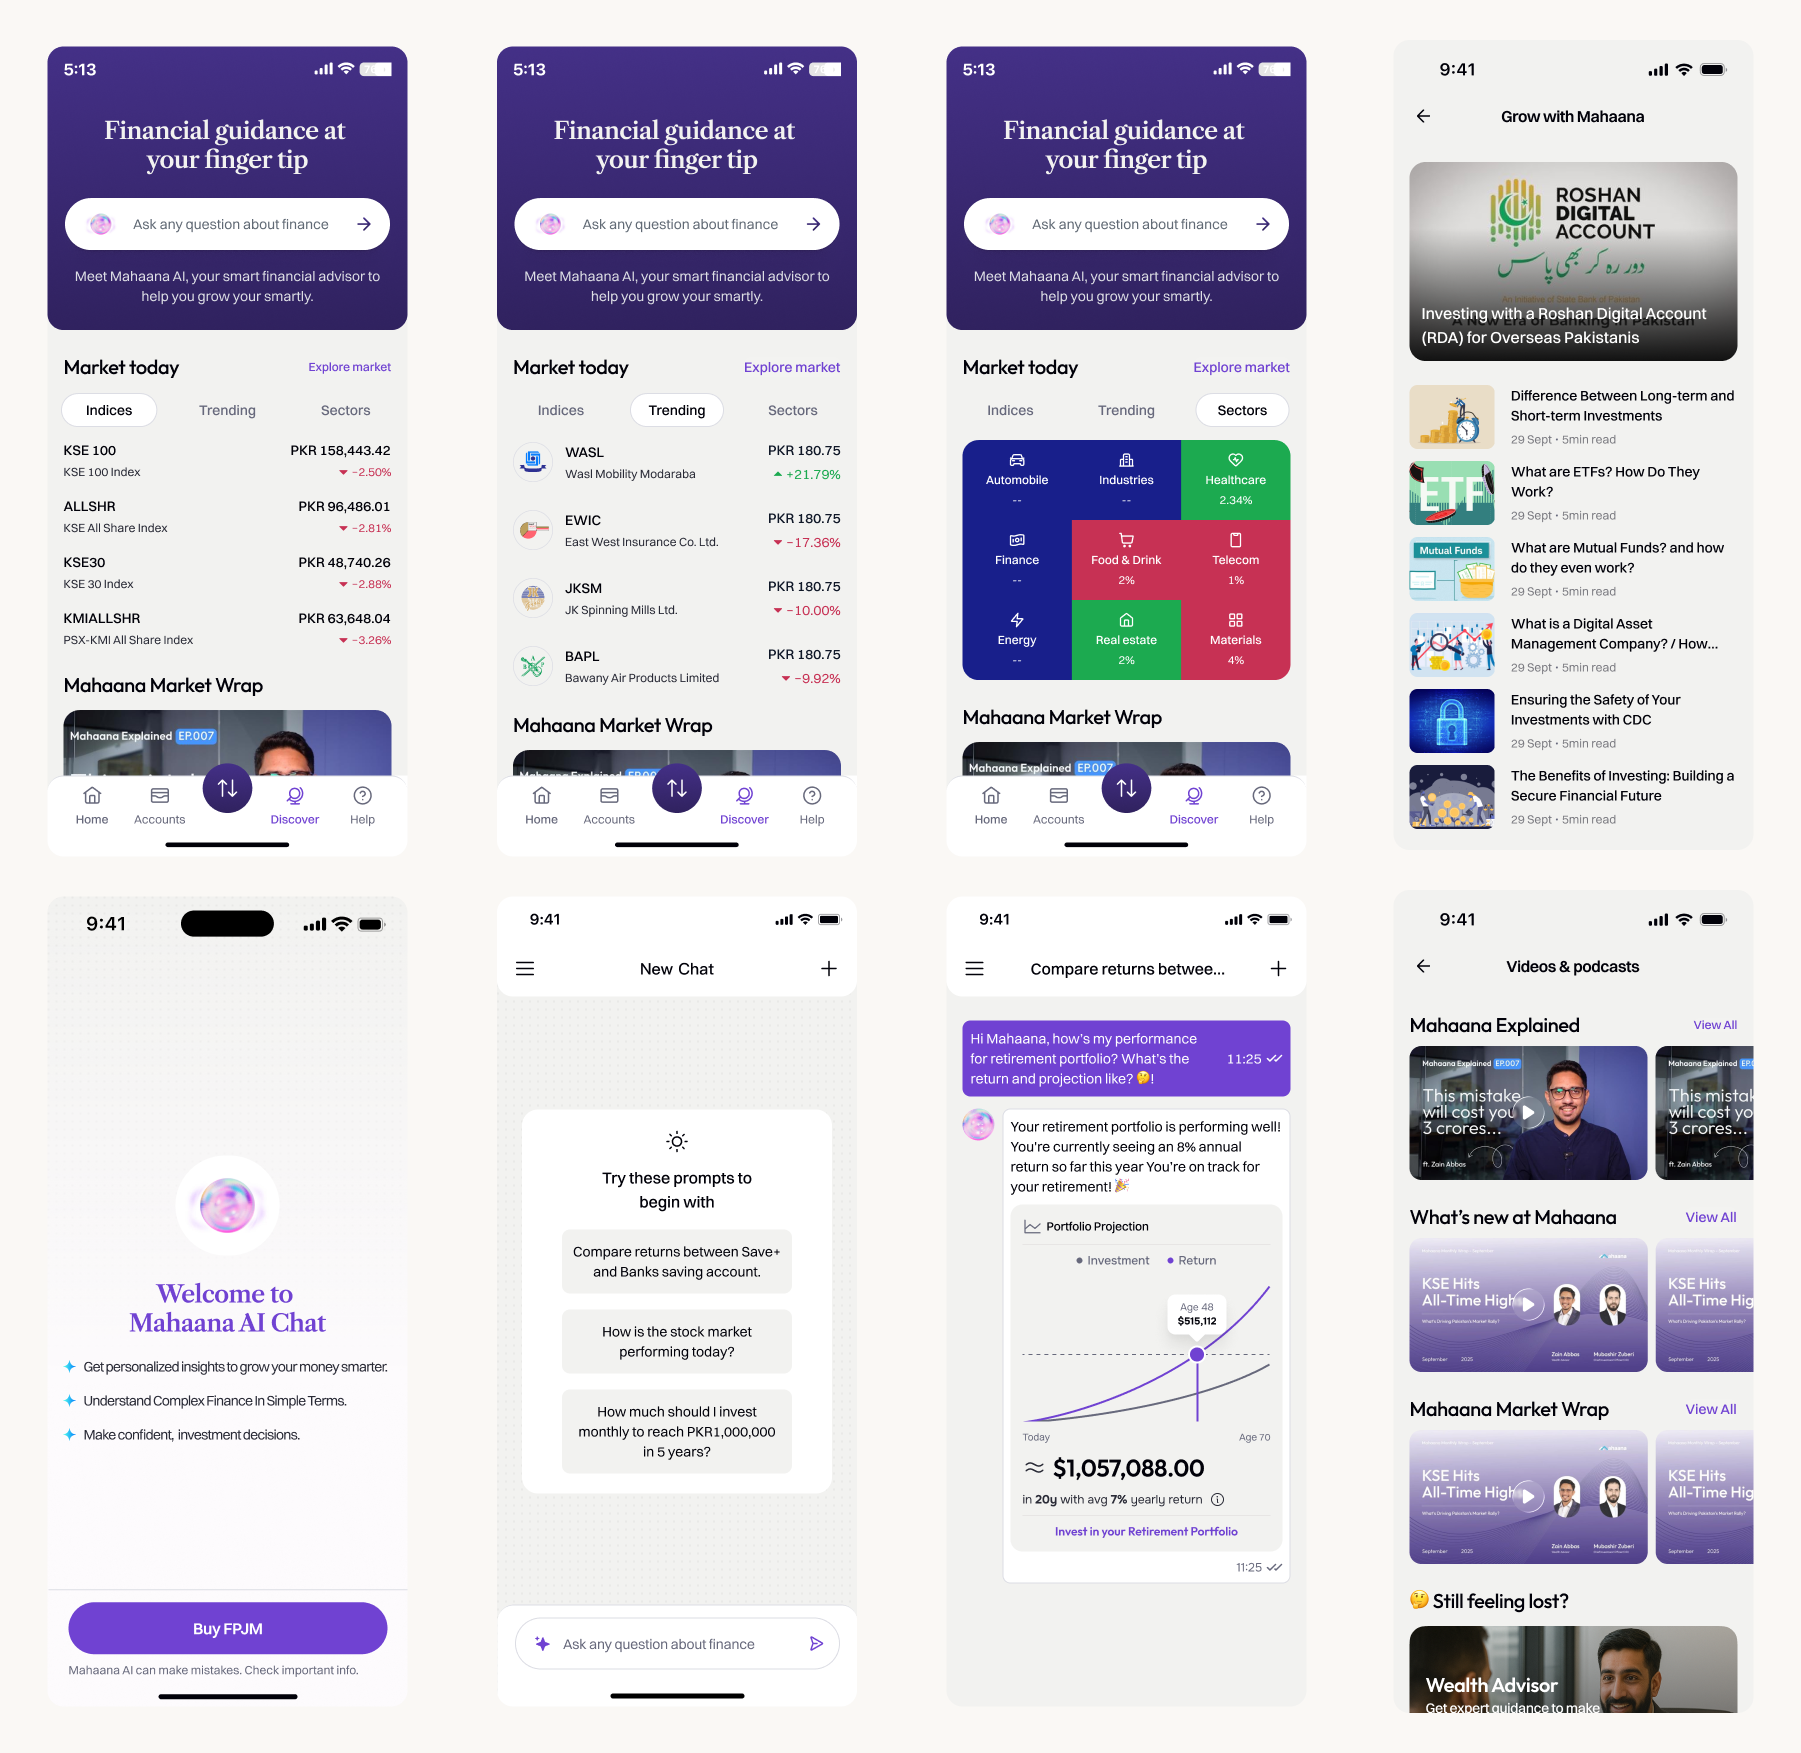
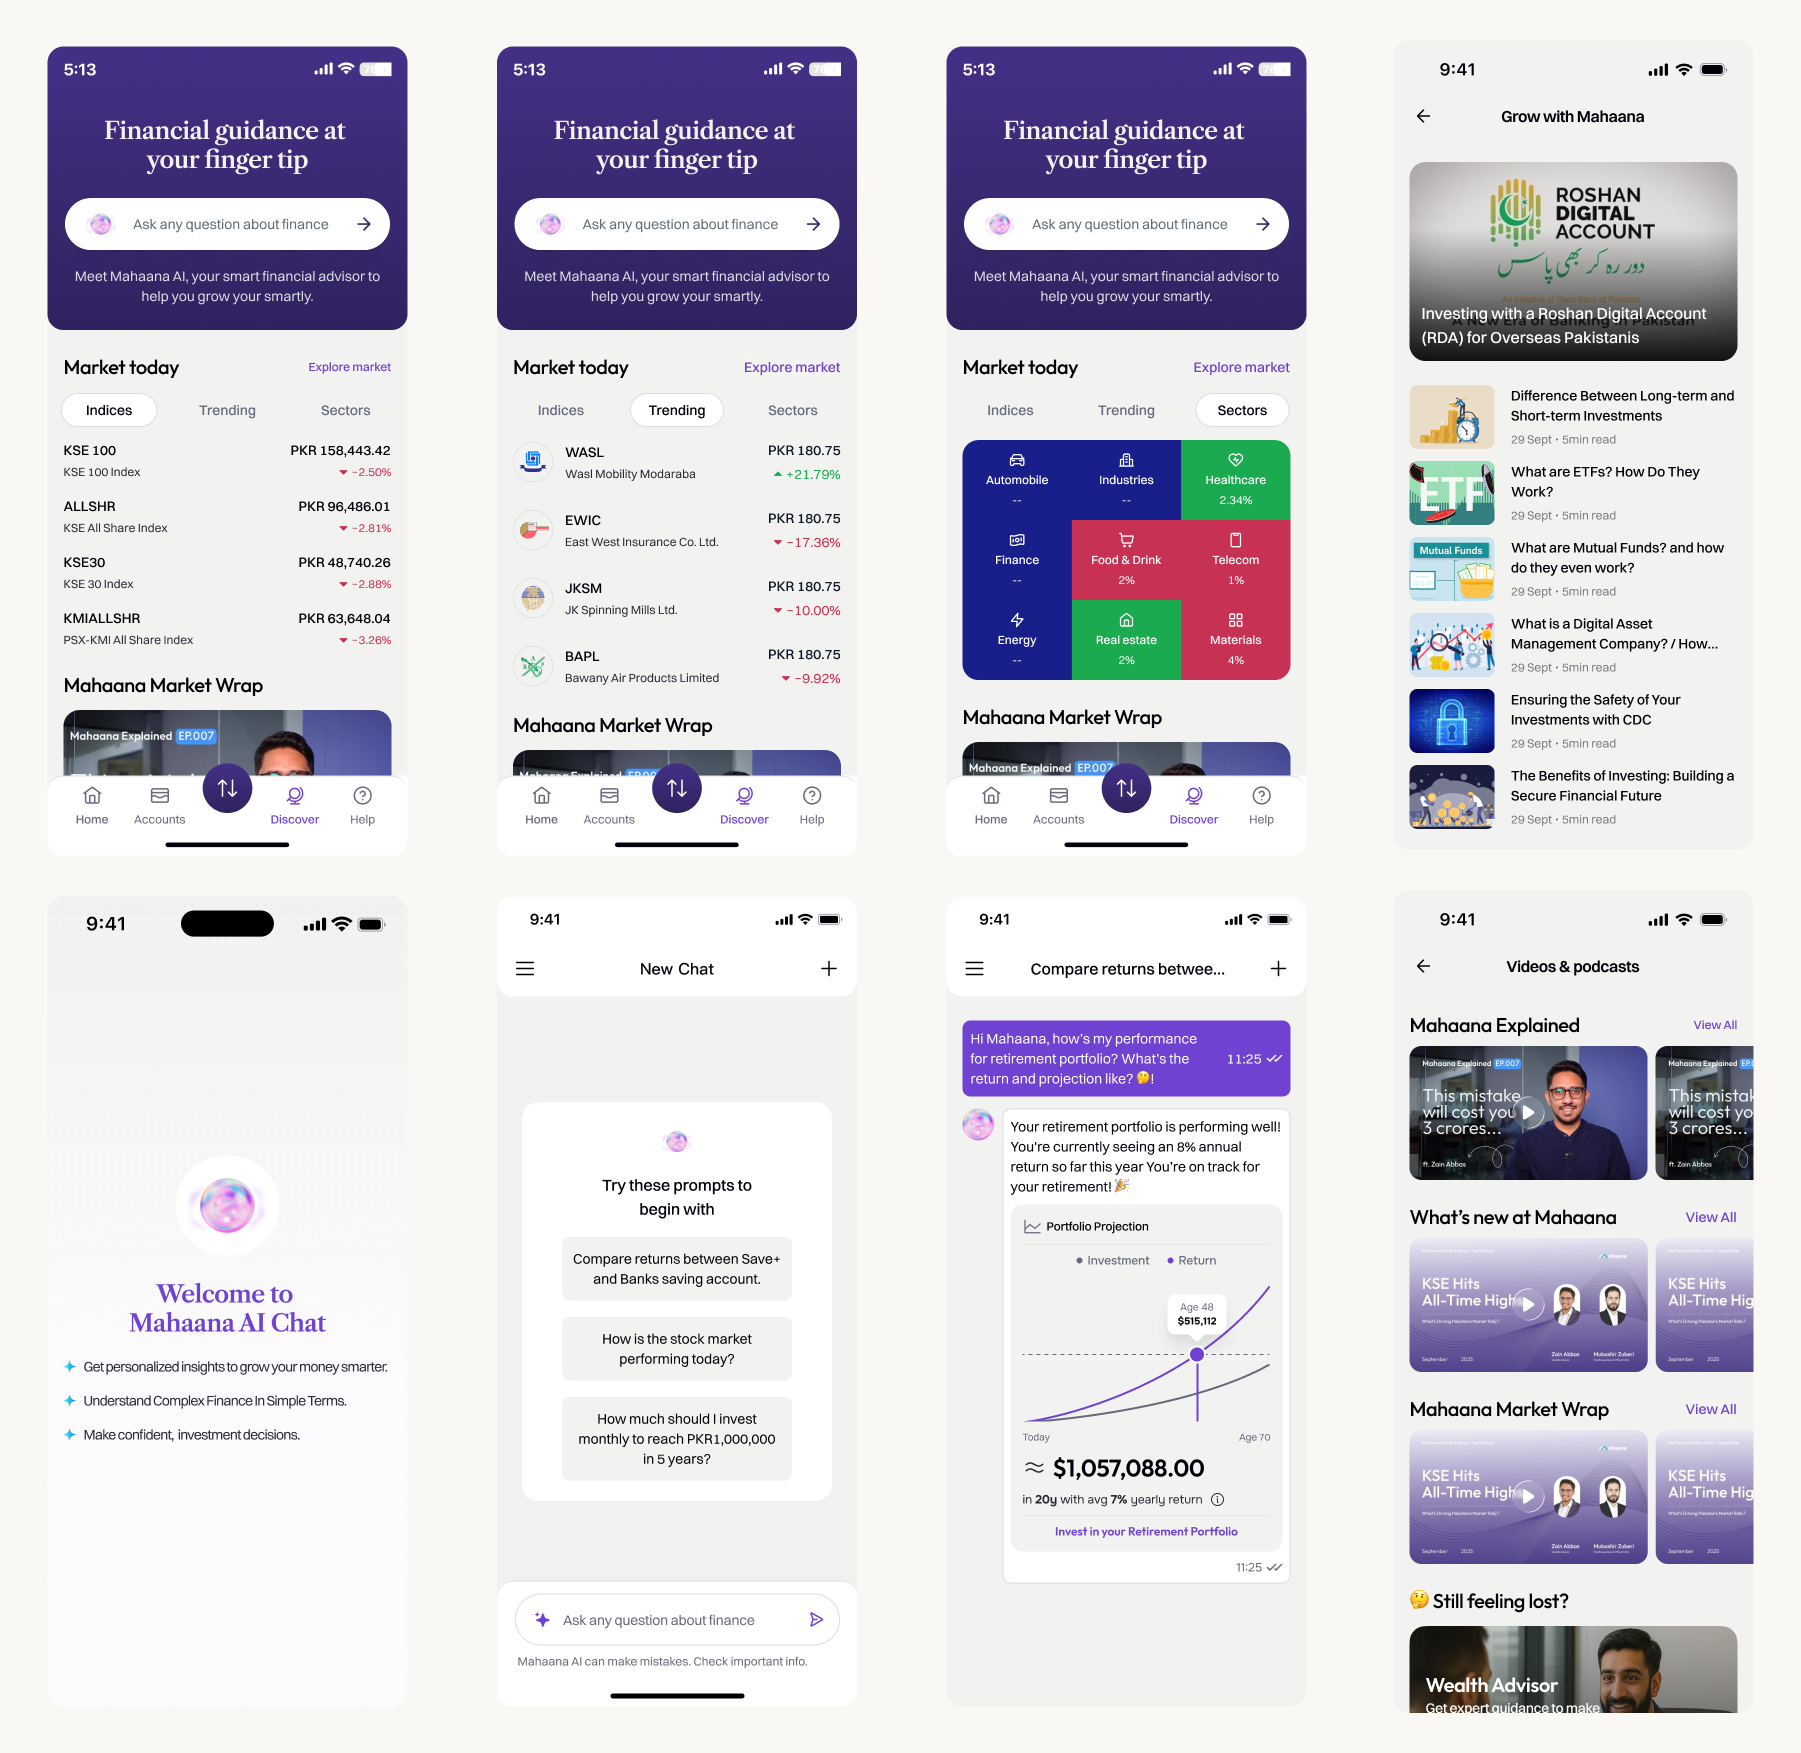
Refresh the Mahaana design system and Discover images, trim home copy

Changed region(s): [[0.3109, 0.6469, 0.4353, 0.8317], [0.0311, 0.8933, 0.2177, 0.9857], [0.2798, 0.9241, 0.4353, 0.9549]]

diff --git a/src/components/case-study/MahaanaFoundationsToggle.tsx b/src/components/case-study/MahaanaFoundationsToggle.tsx
@@ -14,18 +14,14 @@ export function MahaanaFoundationsToggle() {
   return (
     <figure className="case-figure my-10">
       {/* Both images stay mounted and stacked so the switch never waits on a
-          download or shifts the layout; only opacity changes. The exports share
-          the same 1166x908 canvas. */}
-      <div className="overflow-hidden rounded-xl border border-border bg-card">
-        {/* The band under the image takes the showing export's canvas colour
-            (#F3F1EE light, #FAF8F5 dark), so the switch reads as part of the
-            image rather than a strip. */}
-        <div
-          className={cn(
-            "relative pb-10 transition-colors duration-300 motion-reduce:transition-none",
-            dark ? "bg-[#FAF8F5]" : "bg-[#F3F1EE]",
-          )}
-        >
+          download or shifts the layout; only opacity changes. The light export
+          is 1166x908 and sets the height; the dark one is 2px taller, and the
+          extra falls into the band below, which is the same colour. */}
+      {/* Both exports sit on #FAF8F5, the light --background, so the frame and
+          the band under the image use that token and the switch reads as part
+          of the image rather than a strip. */}
+      <div className="overflow-hidden rounded-xl border border-border bg-background">
+        <div className="relative pb-10">
           <img
             src="/images/projects/mahaana-wealth/atomic-system.png"
             alt={dark ? "" : `${ALT}, in light mode`}
@@ -42,7 +38,7 @@ export function MahaanaFoundationsToggle() {
             alt={dark ? `${ALT}, in dark mode` : ""}
             aria-hidden={!dark}
             width={1166}
-            height={908}
+            height={910}
             className={cn(
               "absolute inset-x-0 top-0 block w-full transition-opacity duration-300 motion-reduce:transition-none",
               dark ? "opacity-100" : "opacity-0",
